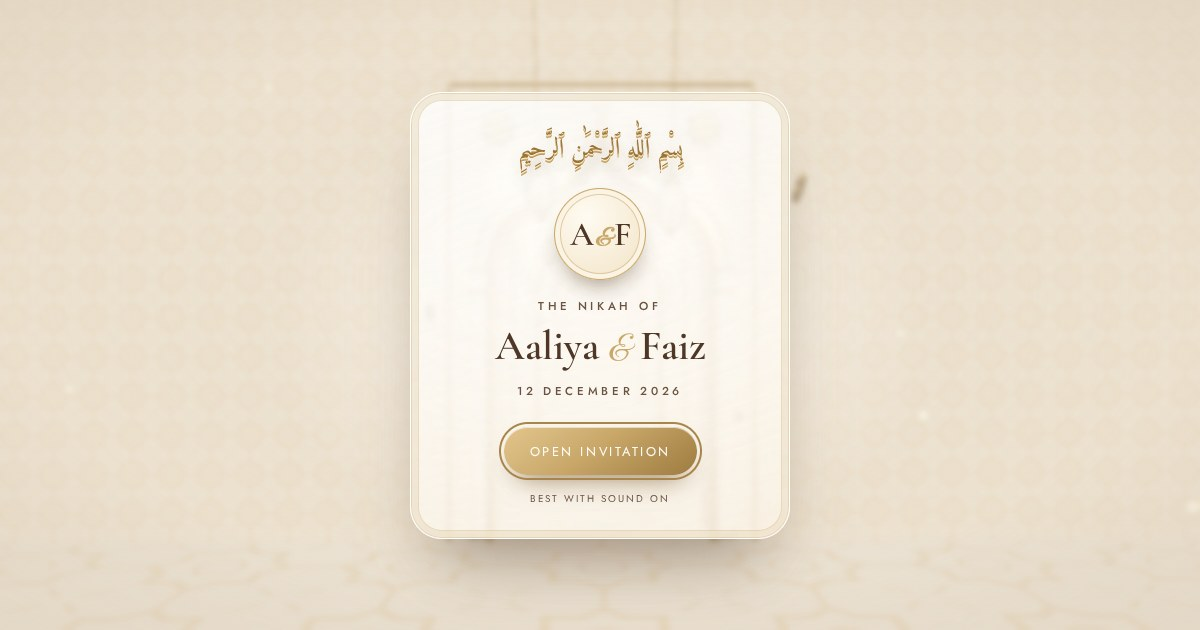
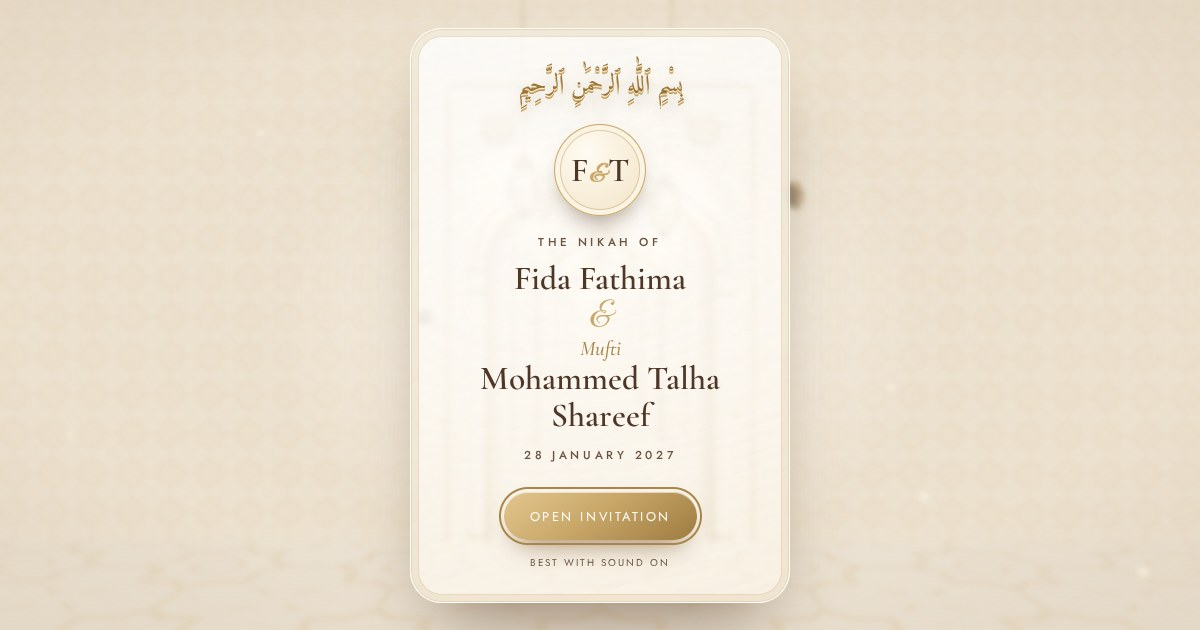
Switch the invitation to Fida & Mufti Mohammed Talha Shareef's Nikah
- Couple: D/o and S/o lines, "Mufti" title, long names wrap by word
- Nikah only (Walima removed), Thursday 28 January 2027, 12:30 PM, lunch after
- Venue: DSM Hall, Hassan, with the Google Maps share link
- RSVP off: the last scene becomes a closing dua, nav label "Dua"
- Short names (Fida & Talha) for the top bar, monogram and page title
- Page meta no longer hardcodes "Nikah & Walima"; new link-preview image

Claude-Session: https://claude.ai/code/session_01Lj1dEWUqPwDMW6e4Rcfk4F

Changed region(s): [[0.3392, 0.0302, 0.6783, 1.0], [0.6475, 0.2714, 0.6783, 0.3317]]

diff --git a/index.html b/index.html
@@ -9,27 +9,27 @@
     <link rel="apple-touch-icon" href="/favicon.svg" />
 
     <!-- seo:start -->
-    <title>Aaliya &amp; Faiz · Saturday, 12 December 2026 · Wedding Invitation</title>
-    <meta name="description" content="Aaliya &amp; Faiz invite you to their Nikah &amp; Walima on Saturday, 12 December 2026 at The Grand Pavilion, Palm Gardens, 42 Residency Road, Ashok Nagar, Bengaluru 560025, Karnataka." />
+    <title>Fida &amp; Talha · Thursday, 28 January 2027 · Nikah Invitation</title>
+    <meta name="description" content="Fida Fathima &amp; Mohammed Talha Shareef invite you to their Nikah on Thursday, 28 January 2027 at DSM Hall, 3rd Main, 4th Cross Road, Pension Mohalla, Hassan, Karnataka – 573201." />
     <meta property="og:type" content="website" />
-    <meta property="og:title" content="Aaliya &amp; Faiz · Saturday, 12 December 2026 · Wedding Invitation" />
-    <meta property="og:description" content="Aaliya &amp; Faiz invite you to their Nikah &amp; Walima on Saturday, 12 December 2026 at The Grand Pavilion, Palm Gardens, 42 Residency Road, Ashok Nagar, Bengaluru 560025, Karnataka." />
+    <meta property="og:title" content="Fida &amp; Talha · Thursday, 28 January 2027 · Nikah Invitation" />
+    <meta property="og:description" content="Fida Fathima &amp; Mohammed Talha Shareef invite you to their Nikah on Thursday, 28 January 2027 at DSM Hall, 3rd Main, 4th Cross Road, Pension Mohalla, Hassan, Karnataka – 573201." />
     <meta property="og:locale" content="en_IN" />
     <meta property="og:url" content="https://asimdelvi.github.io/faiz-marriage" />
     <link rel="canonical" href="https://asimdelvi.github.io/faiz-marriage" />
     <meta property="og:image" content="https://asimdelvi.github.io/faiz-marriage/og.jpg" />
     <meta name="twitter:card" content="summary_large_image" />
-    <meta name="twitter:title" content="Aaliya &amp; Faiz · Saturday, 12 December 2026 · Wedding Invitation" />
-    <meta name="twitter:description" content="Aaliya &amp; Faiz invite you to their Nikah &amp; Walima on Saturday, 12 December 2026 at The Grand Pavilion, Palm Gardens, 42 Residency Road, Ashok Nagar, Bengaluru 560025, Karnataka." />
+    <meta name="twitter:title" content="Fida &amp; Talha · Thursday, 28 January 2027 · Nikah Invitation" />
+    <meta name="twitter:description" content="Fida Fathima &amp; Mohammed Talha Shareef invite you to their Nikah on Thursday, 28 January 2027 at DSM Hall, 3rd Main, 4th Cross Road, Pension Mohalla, Hassan, Karnataka – 573201." />
     <meta name="twitter:image" content="https://asimdelvi.github.io/faiz-marriage/og.jpg" />
-    <script type="application/ld+json">{"@context":"https://schema.org","@type":"Event","name":"Aaliya & Faiz — Wedding","eventStatus":"https://schema.org/EventScheduled","eventAttendanceMode":"https://schema.org/OfflineEventAttendanceMode","description":"Aaliya & Faiz invite you to their Nikah & Walima on Saturday, 12 December 2026 at The Grand Pavilion, Palm Gardens, 42 Residency Road, Ashok Nagar, Bengaluru 560025, Karnataka.","startDate":"2026-12-12T10:30:00.000Z","image":["https://asimdelvi.github.io/faiz-marriage/og.jpg"],"url":"https://asimdelvi.github.io/faiz-marriage","location":{"@type":"Place","name":"The Grand Pavilion, Palm Gardens","address":{"@type":"PostalAddress","streetAddress":"42 Residency Road, Ashok Nagar, Bengaluru 560025, Karnataka"}},"organizer":{"@type":"Person","name":"Aaliya & Faiz"}}</script>
+    <script type="application/ld+json">{"@context":"https://schema.org","@type":"Event","name":"Fida & Talha — Nikah","eventStatus":"https://schema.org/EventScheduled","eventAttendanceMode":"https://schema.org/OfflineEventAttendanceMode","description":"Fida Fathima & Mohammed Talha Shareef invite you to their Nikah on Thursday, 28 January 2027 at DSM Hall, 3rd Main, 4th Cross Road, Pension Mohalla, Hassan, Karnataka – 573201.","startDate":"2027-01-28T07:00:00.000Z","image":["https://asimdelvi.github.io/faiz-marriage/og.jpg"],"url":"https://asimdelvi.github.io/faiz-marriage","location":{"@type":"Place","name":"DSM Hall","address":{"@type":"PostalAddress","streetAddress":"3rd Main, 4th Cross Road, Pension Mohalla, Hassan, Karnataka – 573201"}},"organizer":{"@type":"Person","name":"Fida Fathima & Mohammed Talha Shareef"}}</script>
     <!-- seo:end -->
   </head>
   <body>
     <div id="root"></div>
     <noscript>
       <div style="padding: 3rem 1.5rem; font-family: Georgia, serif; text-align: center">
-        <h1>You are invited to our Nikah &amp; Walima</h1>
+        <h1>You are invited to our Nikah</h1>
         <p>Please enable JavaScript to open the invitation.</p>
       </div>
     </noscript>

diff --git a/src/sections/Scenes.tsx b/src/sections/Scenes.tsx
@@ -47,36 +47,45 @@ export function Blessing({ cfg }: { cfg: SiteConfig }) {
 }
 
 export function Couple({ cfg, bride, groom }: { cfg: SiteConfig; bride: string; groom: string }) {
-  const second = 0.9 + bride.length * 0.07;
+  // Long names spell out faster so the whole reveal stays under about 3 seconds.
+  const step = Math.min(0.07, 1.4 / Math.max(bride.length, groom.length, 1));
+  const amp = 0.55 + bride.length * step;
+  const second = amp + 0.45;
+  const end = second + groom.length * step;
   return (
     <>
       {cfg.heroEyebrow ? <p className="kicker r r-rise" style={d(0.1)}>{cfg.heroEyebrow}</p> : null}
-      <h1 className="names emboss">
-        <Letters text={bride} start={0.35} />
-        <span className="amp r r-coin" style={d(0.55 + bride.length * 0.07)} aria-hidden="true">&amp;</span>
+      <h1 className={`names emboss${Math.max(bride.length, groom.length) > 12 ? ' long' : ''}`}>
+        <Letters text={bride} start={0.35} step={step} />
+        {cfg.brideParent ? <span className="parent r r-rise" style={d(amp - 0.1)}>{cfg.brideParent}</span> : null}
+        <span className="amp r r-coin" style={d(amp)} aria-hidden="true">&amp;</span>
         <span className="sr-only"> and </span>
-        <Letters text={groom} start={second} />
+        {cfg.groomTitle ? <span className="honorific r r-rise" style={d(second - 0.15)}>{cfg.groomTitle} </span> : null}
+        <Letters text={groom} start={second} step={step} />
+        {cfg.groomParent ? <span className="parent r r-rise" style={d(end)}>{cfg.groomParent}</span> : null}
       </h1>
-      <Divider delay={second + 0.5} />
-      {cfg.heroSubtitle ? <p className="italic lead r r-rise" style={d(second + 0.6)}>{cfg.heroSubtitle}</p> : null}
-      {cfg.invitationNote ? <p className="body-text measure r r-rise" style={d(second + 0.8)}>{cfg.invitationNote}</p> : null}
+      <Divider delay={end + 0.3} />
+      {cfg.heroSubtitle ? <p className="italic lead r r-rise" style={d(end + 0.4)}>{cfg.heroSubtitle}</p> : null}
+      {cfg.invitationNote ? <p className="body-text measure r r-rise" style={d(end + 0.6)}>{cfg.invitationNote}</p> : null}
     </>
   );
 }
 
 export function Events({ cfg, longDate }: { cfg: SiteConfig; longDate: string }) {
   const titles = cfg.timeline.map((e) => e.title).filter(Boolean);
-  const heading = titles.length === 2 ? titles : null;
+  const custom = cfg.eventsHeading?.trim();
   return (
     <>
       <p className="kicker r r-rise" style={d(0.1)}>You are invited to the</p>
       <h2 className="heading emboss r r-flip" style={d(0.25)}>
-        {heading ? (
+        {custom ? (
+          custom
+        ) : titles.length === 2 ? (
           <>
-            {heading[0]} <span className="script">&amp;</span> {heading[1]}
+            {titles[0]} <span className="script">&amp;</span> {titles[1]}
           </>
         ) : (
-          'The Celebrations'
+          titles[0] || 'The Celebrations'
         )}
       </h2>
       {longDate ? <p className="italic sub r r-rise" style={d(0.45)}>{longDate}</p> : null}
@@ -164,20 +173,24 @@ export function Venue({ cfg, directions }: { cfg: SiteConfig; directions: string
   );
 }
 
-export function Rsvp({ cfg, bride, groom, rsvpHref, deadline }: {
+export function Rsvp({ cfg, bride, groom, rsvpHref, deadline, signOff }: {
   cfg: SiteConfig;
   bride: string;
   groom: string;
   rsvpHref: string;
   deadline: string;
+  /** Shown when there is no RSVP, e.g. "Fida & Talha · 28 January 2027". */
+  signOff: string;
 }) {
   const label = cfg.rsvp?.label?.trim() || 'RSVP';
+  const closingOnly = !rsvpHref && !cfg.contacts?.length;
   return (
     <>
       <Monogram a={bride} b={groom} delay={0.1} />
       {cfg.closingDua?.arabic ? <Arabic className="dua" variant="r-flip" delay={0.35}>{cfg.closingDua.arabic}</Arabic> : null}
       {cfg.closingDua?.text ? <p className="italic sub measure r r-rise" style={d(0.6)}>{cfg.closingDua.text}</p> : null}
       <Divider delay={0.8} />
+      {closingOnly && signOff ? <p className="kicker r r-rise" style={d(0.95)}>{signOff}</p> : null}
       {deadline ? <p className="kicker r r-rise" style={d(0.9)}>Kindly reply by {deadline}</p> : null}
       {cfg.rsvp?.note ? <p className="body-text measure r r-rise" style={d(1)}>{cfg.rsvp.note}</p> : null}
       {rsvpHref ? (

diff --git a/src/App.tsx b/src/App.tsx
@@ -16,7 +16,7 @@ const reducedMotion = () => window.matchMedia('(prefers-reduced-motion: reduce)'
 
 export default function App() {
   const cfg = config;
-  const { bride, groom, pair } = coupleNames(cfg);
+  const { bride, groom, pair, shortBride, shortGroom, shortPair } = coupleNames(cfg);
   useSeo(cfg);
 
   // Display date: local calendar day, so it reads '12' for guests in any timezone.
@@ -42,9 +42,10 @@ export default function App() {
       { id: 'events', label: 'Ceremonies', nav: 'Events' },
       { id: 'date', label: 'Date', nav: 'Date' },
       { id: 'venue', label: 'Venue', nav: 'Venue' },
-      { id: 'rsvp', label: 'RSVP', nav: 'RSVP' },
+      // Without an RSVP link or contacts, the last scene is the closing dua.
+      rsvp || cfg.contacts?.length ? { id: 'rsvp', label: 'RSVP', nav: 'RSVP' } : { id: 'rsvp', label: 'Closing dua', nav: 'Dua' },
     ],
-    [],
+    [rsvp, cfg],
   );
   const navItems: NavItem[] = scenes.map((s, index) => ({ index, label: s.nav })).filter((s) => s.label);
 
@@ -105,7 +106,7 @@ export default function App() {
       <div className="scrim" aria-hidden="true" />
 
       <header className={`top${opened ? ' show' : ''}`}>
-        <div className="brand">{pair}</div>
+        <div className="brand">{shortPair}</div>
         {music.available ? (
           <button type="button" className="sound glass" onClick={music.toggle} aria-pressed={music.playing} aria-label={music.playing ? 'Mute background sound' : 'Play background sound'}>
             {Icon.sound(music.playing)}
@@ -122,7 +123,7 @@ export default function App() {
             {s.id === 'events' && <Events cfg={cfg} longDate={longDate} />}
             {s.id === 'date' && <DateScene cfg={cfg} date={date} start={start} calendarHref={calendarHref} />}
             {s.id === 'venue' && <Venue cfg={cfg} directions={directions} />}
-            {s.id === 'rsvp' && <Rsvp cfg={cfg} bride={bride} groom={groom} rsvpHref={rsvp} deadline={deadline} />}
+            {s.id === 'rsvp' && <Rsvp cfg={cfg} bride={shortBride} groom={shortGroom} rsvpHref={rsvp} deadline={deadline} signOff={[shortPair, dateLine].filter(Boolean).join(' · ')} />}
           </Scene>
         ))}
         <Finale ref={finaleRef} cfg={cfg} instagram={instagramUrl(cfg.socialLinks?.instagram ?? '')} />
@@ -131,7 +132,7 @@ export default function App() {
       <Nav items={navItems} active={active} visible={opened} onGo={go} />
 
       {!coverGone ? (
-        <Cover bride={bride} groom={groom} bismillah={cfg.bismillah} dateLine={dateLine} hasMusic={music.available} onOpen={open} />
+        <Cover bride={bride} groom={groom} groomTitle={cfg.groomTitle} initials={[shortBride, shortGroom]} bismillah={cfg.bismillah} dateLine={dateLine} hasMusic={music.available} onOpen={open} />
       ) : null}
     </>
   );

diff --git a/src/lib/meta.ts b/src/lib/meta.ts
@@ -10,25 +10,31 @@ export type Meta = {
   jsonLd: Record<string, unknown>;
 };
 
-export function coupleNames(cfg: Pick<SiteConfig, 'brideName' | 'groomName'>): {
+export function coupleNames(cfg: Pick<SiteConfig, 'brideName' | 'groomName' | 'shortNames'>): {
   bride: string;
   groom: string;
   pair: string;
+  shortBride: string;
+  shortGroom: string;
+  shortPair: string;
 } {
   const bride = (cfg.brideName ?? '').trim() || 'The Bride';
   const groom = (cfg.groomName ?? '').trim() || 'The Groom';
-  return { bride, groom, pair: `${bride} & ${groom}` };
+  const shortBride = cfg.shortNames?.bride?.trim() || bride;
+  const shortGroom = cfg.shortNames?.groom?.trim() || groom;
+  return { bride, groom, pair: `${bride} & ${groom}`, shortBride, shortGroom, shortPair: `${shortBride} & ${shortGroom}` };
 }
 
 /** Single source of truth for SEO — used at build time and at runtime. */
 export function buildMeta(cfg: SiteConfig): Meta {
-  const { pair } = coupleNames(cfg);
+  const { pair, shortPair } = coupleNames(cfg);
+  const events = (cfg.timeline ?? []).map((e) => e.title).filter(Boolean).join(' & ') || 'wedding';
   const longDate = formatLongDate(cfg.weddingDate, 'en-IN');
   const start = parseWeddingDate(cfg.weddingDate, cfg.weddingTime, cfg.timezone);
 
   const title =
     cfg.seo?.title?.trim() ||
-    [pair, longDate ? `· ${longDate}` : '', '· Wedding Invitation']
+    [shortPair, longDate ? `· ${longDate}` : '', `· ${events} Invitation`]
       .filter(Boolean)
       .join(' ')
       .replace(/\s+/g, ' ');
@@ -36,7 +42,7 @@ export function buildMeta(cfg: SiteConfig): Meta {
   const description =
     cfg.seo?.description?.trim() ||
     [
-      `${pair} invite you to their Nikah & Walima`,
+      `${pair} invite you to their ${events}`,
       longDate ? ` on ${longDate}` : '',
       cfg.venueName ? ` at ${cfg.venueName}` : '',
       cfg.venueAddress ? `, ${cfg.venueAddress}` : '',
@@ -52,7 +58,7 @@ export function buildMeta(cfg: SiteConfig): Meta {
   const jsonLd: Record<string, unknown> = {
     '@context': 'https://schema.org',
     '@type': 'Event',
-    name: `${pair} — Wedding`,
+    name: `${shortPair} — ${events}`,
     eventStatus: 'https://schema.org/EventScheduled',
     eventAttendanceMode: 'https://schema.org/OfflineEventAttendanceMode',
     description,

diff --git a/src/index.css b/src/index.css
@@ -145,7 +145,11 @@ main { position: relative; overflow-x: clip; }
 /* scene 3 · couple */
 .names { font-family: var(--serif); font-weight: 600; font-size: clamp(3.6rem, 18vw, 5.4rem); line-height: .98; color: var(--ink);
   display: flex; flex-direction: column; align-items: center; margin-top: 1.1rem; perspective: 600px; }
-.letters { display: block; white-space: nowrap; }
+.letters { display: block; }
+.letters .word { display: inline-block; white-space: nowrap; margin: 0 .12em; }
+.names.long { font-size: clamp(2.5rem, 11.5vw, 3.9rem); line-height: 1.02; }
+.names .parent { display: block; margin: .45rem 0 .1rem; font-family: var(--sans); font-weight: 450; font-size: .68rem; letter-spacing: .26em; text-transform: uppercase; color: var(--ink-soft); text-shadow: none; }
+.names .honorific { display: block; margin-bottom: .1rem; font-family: var(--serif); font-style: italic; font-weight: 500; font-size: 1.45rem; line-height: 1.2; color: var(--gold-deep); text-shadow: none; }
 .amp { display: block; font-family: var(--script); font-weight: 400; font-size: .82em; color: var(--gold); line-height: 1; margin: 2px 0 -4px;
   text-shadow: 0 2px 0 #b08d55, 0 10px 14px rgb(80 55 30 / .25); }
 
@@ -234,7 +238,10 @@ main { position: relative; overflow-x: clip; }
 @keyframes coin { from { opacity: 0; transform: rotateY(540deg) scale(.55); } }
 .cover-bismillah { font-size: 1.5rem; margin-bottom: .4rem; }
 .cover-mono { margin: .3rem 0 .6rem; }
-.cover-names { font-family: var(--serif); font-weight: 600; font-size: 2.6rem; line-height: 1.1; color: var(--ink); }
+.cover-names { font-family: var(--serif); font-weight: 600; font-size: 2.6rem; line-height: 1.1; color: var(--ink); display: flex; flex-direction: column; align-items: center; }
+.cover-names .cover-name { display: block; font-size: clamp(1.7rem, 7.4vw, 2.1rem); line-height: 1.12; }
+.cover-names small { display: block; font-style: italic; font-weight: 500; font-size: .62em; color: var(--gold-deep); }
+.cover-amp { font-size: 1.9rem; line-height: 1.1; }
 .cover-names .script { font-size: .85em; }
 .cover-date { margin-top: .2rem; }
 .cover-btn { margin-top: 1.2rem; }

diff --git a/src/components/Cover.tsx b/src/components/Cover.tsx
@@ -4,6 +4,10 @@ import { d, Monogram } from './ui';
 type Props = {
   bride: string;
   groom: string;
+  /** Honorific before the groom's name, e.g. "Mufti". */
+  groomTitle?: string;
+  /** Initials for the monogram, from the short names. */
+  initials: [string, string];
   bismillah?: string;
   dateLine: string;
   hasMusic: boolean;
@@ -14,7 +18,7 @@ type Props = {
  * The sealed invitation. Tapping Open is the guest's first gesture, which is
  * what lets the soft background sound start — and it sets the camera moving.
  */
-export default function Cover({ bride, groom, bismillah, dateLine, hasMusic, onOpen }: Props) {
+export default function Cover({ bride, groom, groomTitle, initials, bismillah, dateLine, hasMusic, onOpen }: Props) {
   const [leaving, setLeaving] = useState(false);
   return (
     <div className={`cover${leaving ? ' leaving' : ''}`} role="dialog" aria-modal="true" aria-labelledby="cover-names">
@@ -24,10 +28,15 @@ export default function Cover({ bride, groom, bismillah, dateLine, hasMusic, onO
             {bismillah}
           </p>
         ) : null}
-        <Monogram a={bride} b={groom} className="cover-mono" delay={0.25} />
+        <Monogram a={initials[0]} b={initials[1]} className="cover-mono" delay={0.25} />
         <p className="kicker r r-rise" style={d(0.45)}>The Nikah of</p>
         <h2 id="cover-names" className="cover-names r r-flip" style={d(0.55)}>
-          {bride} <span className="script">&amp;</span> {groom}
+          <span className="cover-name">{bride}</span>
+          <span className="script cover-amp">&amp;</span>
+          <span className="cover-name">
+            {groomTitle ? <small>{groomTitle} </small> : null}
+            {groom}
+          </span>
         </h2>
         <p className="kicker cover-date r r-rise" style={d(0.7)}>{dateLine}</p>
         <button

diff --git a/src/components/ui.tsx b/src/components/ui.tsx
@@ -28,13 +28,25 @@ export function Arabic({ children, className = '', delay = 0, variant = 'r-rise'
   );
 }
 
-/** Each letter flips up on its own, a beat after the one before. */
+/**
+ * Each letter flips up on its own, a beat after the one before. Letters are
+ * grouped per word so a long name wraps between words, never mid-word.
+ */
 export function Letters({ text, start, step = 0.07 }: { text: string; start: number; step?: number }) {
+  let i = 0;
+  const words = text.split(/\s+/).filter(Boolean);
   return (
     <span className="letters" aria-label={text}>
-      {[...text].map((ch, i) => (
-        <span key={i} aria-hidden="true" className="r r-letter" style={d(start + i * step)}>
-          {ch === ' ' ? ' ' : ch}
+      {words.map((word, w) => (
+        <span key={w} className="word" aria-hidden="true">
+          {[...word].map((ch) => {
+            const delay = start + i++ * step;
+            return (
+              <span key={delay} className="r r-letter" style={d(delay)}>
+                {ch}
+              </span>
+            );
+          })}
         </span>
       ))}
     </span>

diff --git a/src/types.ts b/src/types.ts
@@ -32,7 +32,14 @@ export type SiteConfig = {
   _readme?: string[];
 
   brideName: string;
+  /** e.g. "D/o Mohammed Ilyas", shown under the bride's name. */
+  brideParent?: string;
+  /** Honorific shown above the groom's name, e.g. "Mufti". */
+  groomTitle?: string;
   groomName: string;
+  groomParent?: string;
+  /** Short forms for tight spaces: top bar, monogram initials. */
+  shortNames?: { bride?: string; groom?: string };
   /** ISO 8601, e.g. "2026-12-12". */
   weddingDate: string;
   weddingTime: string;
@@ -53,6 +60,8 @@ export type SiteConfig = {
   heroSubtitle?: string;
   invitationNote?: string;
   dateEyebrow?: string;
+  /** Heading of the ceremonies scene; defaults to the event titles. */
+  eventsHeading?: string;
   timeline: TimelineEvent[];
   closingDua?: { arabic?: string; text?: string };
 

diff --git a/README.md b/README.md
@@ -1,4 +1,4 @@
-# Aaliya & Faiz — 3D Wedding Invitation
+# Fida & Talha — 3D Nikah Invitation
 
 A mobile-first invitation that guests *walk through*: every scroll moves the
 camera one arch deeper down a corridor of carved ivory Mughal arches, past
@@ -29,11 +29,11 @@ npm run preview  # serve the production build
 2. **Bismillah** — a gold crescent spins in above the first arch.
 3. **Blessing** — Surah Ar-Rum 30:21 in Arabic with the English meaning.
 4. **Couple** — the names flip up letter by letter.
-5. **Events** — Nikah and Walima cards with Arabic calligraphy, times and halls.
+5. **Events** — a card per ceremony with Arabic calligraphy, time and hall.
 6. **Date** — Insha'Allah, the big flip-in date, a live countdown and
    **Add to calendar**.
 7. **Venue** — address, parking note and **Get directions** (Google Maps).
-8. **RSVP** — the marriage dua, **RSVP on WhatsApp** and tap-to-call contacts.
+8. **RSVP / Dua** — the marriage dua, plus **RSVP on WhatsApp** and tap-to-call contacts when configured (otherwise a closing dua scene).
 9. **Finale** — the camera leaves the last arch and the mosque comes into view.
 
 A glass navigation bar glides the camera straight to any section. On a laptop or
@@ -47,7 +47,9 @@ Everything lives in [`src/config.json`](src/config.json). Placeholders in it
 
 | Field | Notes |
 | --- | --- |
-| `brideName`, `groomName` | Cover, monogram, names scene, SEO and RSVP copy. |
+| `brideName`, `groomName`, `groomTitle`, `brideParent`, `groomParent` | Cover and names scene (title above the groom's name, D/o and S/o lines under each). |
+| `shortNames` | Short forms for the top bar, monogram initials and page title. |
+| `eventsHeading` | Heading of the ceremonies scene, e.g. "Nikah Ceremony". |
 | `weddingDate`, `weddingTime`, `timezone` | ISO date; free-text time whose first clock time (`4:00 PM`) drives the countdown and calendar link; venue offset such as `+05:30` so both are right for guests abroad. |
 | `venueName`, `venueAddress`, `venueNote` | The venue card. |
 | `googleMapsUrl` | Paste the Google Maps **Share** link for an exact pin. Empty → directions search the name and address. |
